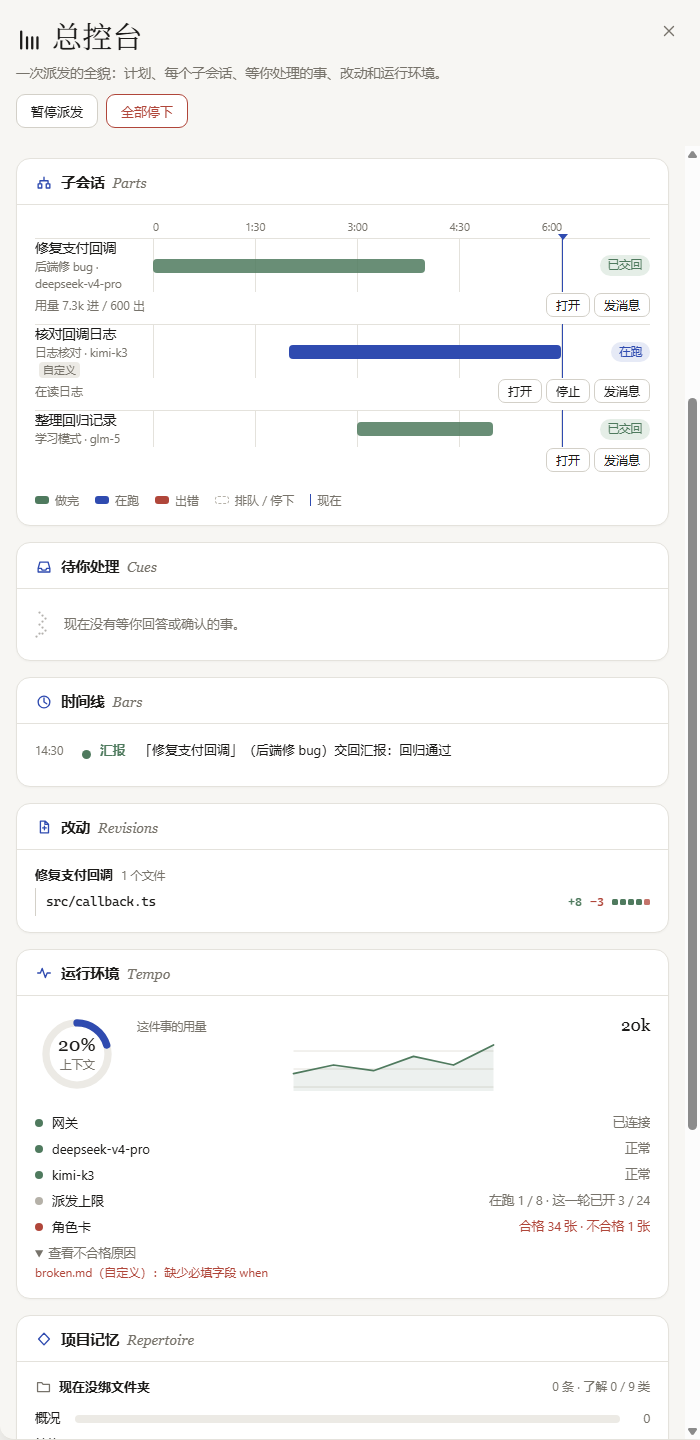
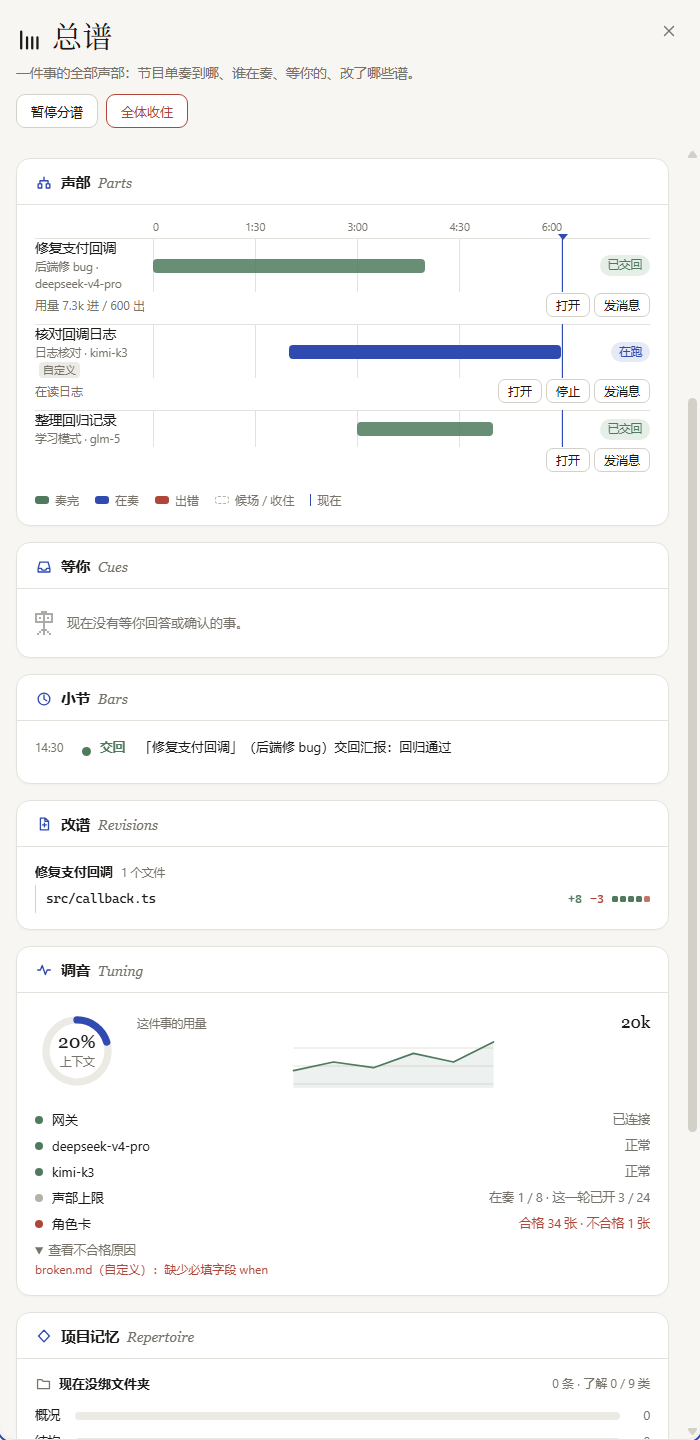
Keep Metre role children under their parent in chat and sidebar
Verified 43 focused UI tests: role links resolve to Metre without adding a mode, role names show in sidebar and reports, and existing rows retain their labels. Re-rendered three mock board layouts on main.

diff --git a/ui/injections/laolao-mode-switcher.js b/ui/injections/laolao-mode-switcher.js
@@ -226,13 +226,14 @@
     return document.querySelector("openclaw-app-shell")?.context?.gateway?.snapshot?.sessionKey || "";
   };
 
+  const metreRoleChild = (key) => /^agent:roles:pinkie-child:[^:\s]+$/.test(String(key || ""));
   const modeFromSession = () => {
     const session = currentSessionKey();
     if (session.startsWith("agent:project:")) return "project";
     if (session.startsWith("agent:thinking:")) return "thinking";
     if (session.startsWith("agent:learning:")) return "learning";
     if (session.startsWith("agent:unrestricted:")) return "unrestricted";
-    if (session.startsWith("agent:metre:")) return "metre";
+    if (session.startsWith("agent:metre:") || metreRoleChild(session)) return "metre";
     if (session.startsWith("agent:main:")) return "chat";
     return null;
   };
@@ -247,14 +248,14 @@
     if (String(key).startsWith("agent:thinking:")) return "thinking";
     if (String(key).startsWith("agent:learning:")) return "learning";
     if (String(key).startsWith("agent:unrestricted:")) return "unrestricted";
-    if (String(key).startsWith("agent:metre:")) return "metre";
+    if (String(key).startsWith("agent:metre:") || metreRoleChild(key)) return "metre";
     if (String(key).startsWith("agent:main:")) return "chat";
     return null;
   };
   const agentIdForMode = (modeId) => modeId === "chat" ? "main" : modeId;
   const rememberSession = (key) => {
     const modeId = modeIdForSession(key);
-    if (!modeId || String(key).includes(":subagent:")) return;
+    if (!modeId || String(key).includes(":subagent:") || metreRoleChild(key)) return;
     try { const name = lastSessionStorageKey(modeId), value = String(key); if (localStorage.getItem(name) !== value) localStorage.setItem(name, value); } catch {}
   };
   const storedSession = (mode) => {

diff --git a/ui/injections/laolao-session-list.js b/ui/injections/laolao-session-list.js
@@ -598,9 +598,10 @@
     const n = el('div', 'sidebar-recent-session session-row-host pinkie-session-part');
     n.dataset.sessionKey = part.key;
     const name = part.title || '子会话', where = MODE_SHORT[part.mode] || '';
+    const role = /^agent:roles:pinkie-child:/.test(part.key) ? part.roleName : '';
     const link = el('a', 'sidebar-recent-session__link');
     link.href = '/chat?session=' + encodeURIComponent(part.key);
-    link.dataset.pinkieTooltip = where ? name + '（在' + where + '模式，点了切过去）' : name;
+    link.dataset.pinkieTooltip = role ? name + '（角色：' + role + '）' : where ? name + '（在' + where + '模式，点了切过去）' : name;
     link.append(el('span', 'sidebar-recent-session__name', name));
     link.onclick = e => {
       if (e.metaKey || e.ctrlKey || e.shiftKey) return;
@@ -608,7 +609,7 @@
       openInMode(part.key);
     };
     const aside = el('span', 'session-row-aside');
-    if (where) aside.append(el('span', 'pinkie-session-origin pinkie-session-part__mode', where));
+    if (role || where) aside.append(el('span', 'pinkie-session-origin pinkie-session-part__mode', role || where));
     const phase = sessionStatus(part);
     if (phase) aside.append(sessionIcon(phase, statusLabels[phase], 'pinkie-session-icon pinkie-session-status--' + phase));
     else {

diff --git a/ui/injections/laolao-session-cards.js b/ui/injections/laolao-session-cards.js
@@ -295,7 +295,9 @@
       return box;
     }
     const heading = el('div', 'pinkie-session-card__title');
-    const where = card.modeName ? card.modeName + ' · ' : '';
+    const role = /^agent:roles:pinkie-child:/.test(card.childKey) || card.consult ? card.roleName : '';
+    const label = role || card.modeName;
+    const where = label ? label + ' · ' : '';
     if (proposal) heading.textContent = where + card.title;
     else heading.textContent = where + card.title + (card.failed ? ' 没做成' : card.consult ? ' 的回答' : ' 做完一轮');
     const body = proposal ? el('div', 'pinkie-session-card__body', expanded.has(card.id) ? fullPrompts.get(card.id) : card.summary)

diff --git a/ui/injections/laolao-sidebar.js b/ui/injections/laolao-sidebar.js
@@ -321,7 +321,9 @@
   });
 
   const modeForSession = (key) => {
-    const agent = String(key || "").match(/^agent:([^:]+):/)?.[1];
+    const session = String(key || "");
+    if (/^agent:roles:pinkie-child:[^:\s]+$/.test(session)) return "metre";
+    const agent = session.match(/^agent:([^:]+):/)?.[1];
     return AGENT_MODE[agent] || null;
   };
 
